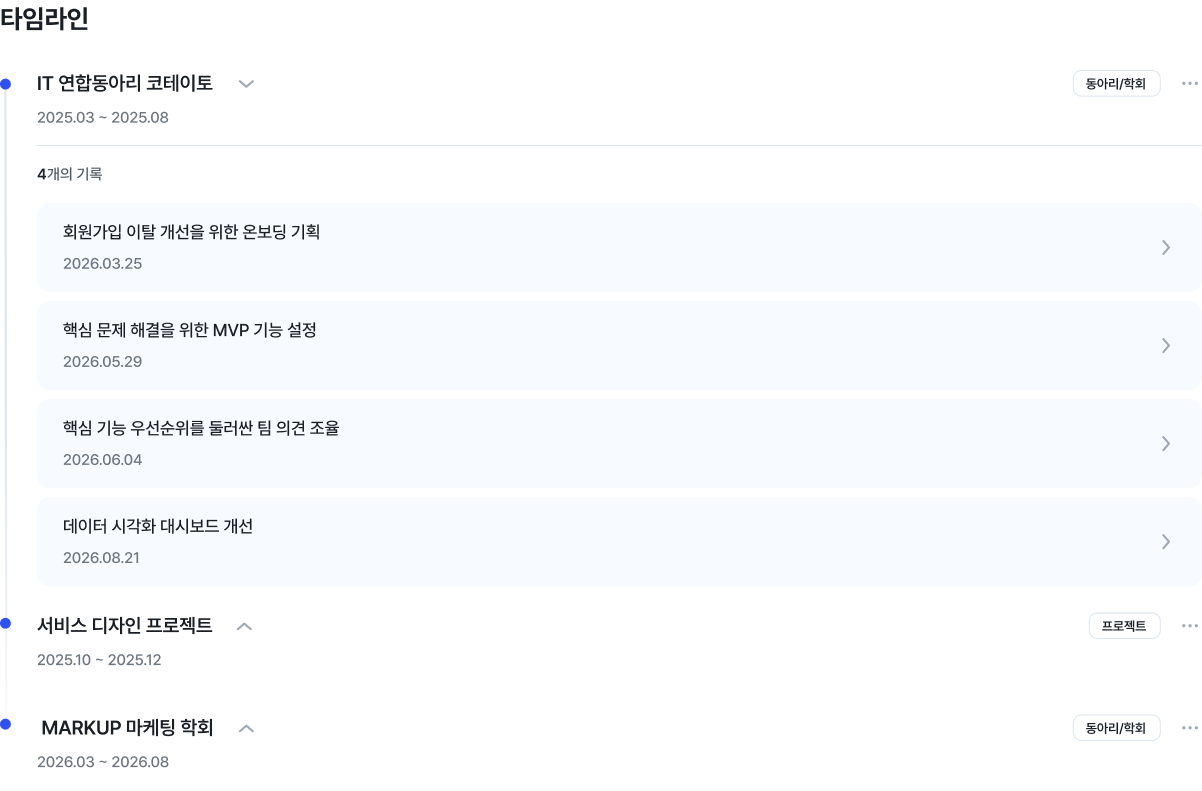
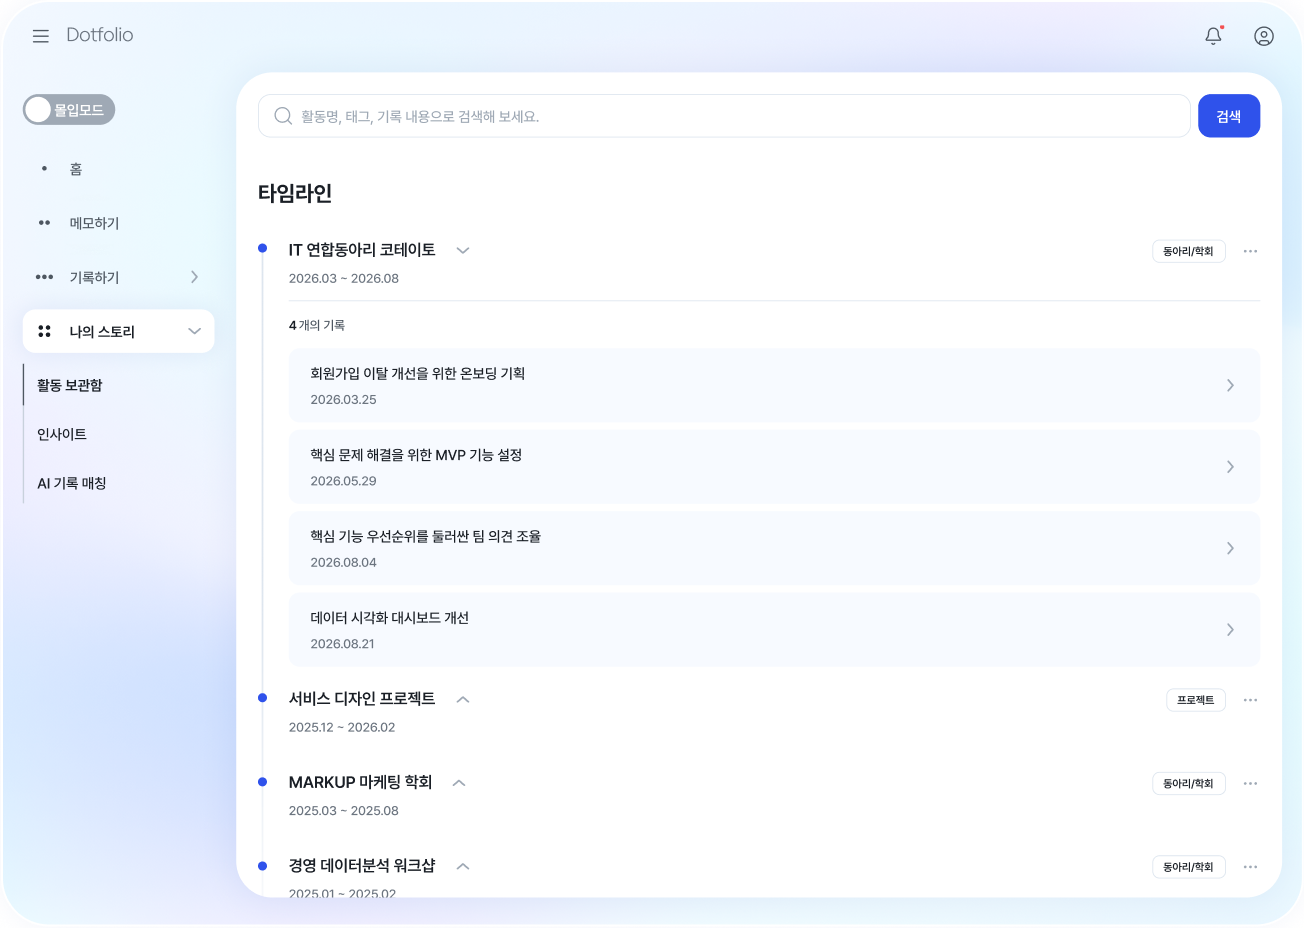
feat: 미리보기 이미지 수정

diff --git a/src/components/landing/SolutionStep.tsx b/src/components/landing/SolutionStep.tsx
@@ -19,36 +19,38 @@ export function SolutionStep({
       role="tab"
       aria-selected={selected}
       aria-controls="solution-preview"
-      className={`flex w-full items-start gap-4 rounded-3xl p-4 text-left sm:gap-6 sm:rounded-4xl sm:p-7 min-[1440px]:gap-[24px]! min-[1440px]:p-[28px]! ${
+      className={`flex w-full flex-col items-start gap-2.5 rounded-3xl text-left sm:rounded-4xl ${
         selected
-          ? "border-2 border-white bg-[rgba(255,255,255,0.70)] shadow-[0_0_15px_0_rgba(22,53,164,0.05)]"
-          : "border-2 border-transparent"
+          ? "border-2 border-white bg-[rgba(255,255,255,0.70)] p-4 shadow-[0_0_15px_0_rgba(22,53,164,0.05)] sm:p-7"
+          : "border-2 border-transparent px-4 py-4 sm:px-5.5 min-[1366px]:w-[440px]"
       }`}
       onClick={onSelect}
     >
-      <span
-        className={`flex size-10 shrink-0 items-center justify-center rounded-full p-0.75 text-lg leading-7 font-semibold tracking-[-0.2px] sm:text-xl min-[1440px]:text-[20px]! min-[1440px]:leading-[28px]! ${
-          selected ? "bg-primary-500 text-grey-0" : "bg-grey-200 text-grey-0"
-        }`}
-      >
-        {index}
-      </span>
-
-      <span className="flex flex-col items-start justify-center gap-2">
-        <strong
-          className={`text-xl leading-[140%] tracking-[-0.22px] sm:text-[22px] ${
-            selected
-              ? "font-semibold text-grey-900"
-              : "font-medium text-grey-700"
+      <span className="flex w-full items-start gap-4 sm:gap-6">
+        <span
+          className={`flex size-10 shrink-0 items-center justify-center rounded-full p-0.75 text-lg leading-7 font-semibold tracking-[-0.2px] sm:text-xl min-[1440px]:text-[20px]! min-[1440px]:leading-[28px]! ${
+            selected ? "bg-primary-500 text-grey-0" : "bg-grey-200 text-grey-0"
           }`}
         >
-          {title}
-        </strong>
-        {selected && description && (
-          <span className="whitespace-pre-line text-sm leading-6 text-grey-600 sm:text-body-reading1-r min-[1440px]:whitespace-pre! min-[1440px]:text-[18px]! min-[1440px]:leading-[28.8px]!">
-            {description}
-          </span>
-        )}
+          {index}
+        </span>
+
+        <span className="flex flex-col items-start justify-center gap-2">
+          <strong
+            className={`flex min-h-10 items-center text-xl leading-[140%] tracking-[-0.22px] sm:text-[22px] ${
+              selected
+                ? "font-semibold text-grey-900"
+                : "font-medium text-grey-700"
+            }`}
+          >
+            {title}
+          </strong>
+          {selected && description && (
+            <span className="whitespace-pre-line text-sm leading-6 text-grey-600 sm:text-body-reading1-r min-[1440px]:whitespace-pre! min-[1440px]:text-[18px]! min-[1440px]:leading-[28.8px]!">
+              {description}
+            </span>
+          )}
+        </span>
       </span>
     </button>
   );

diff --git a/src/components/landing/SolutionPreview.tsx b/src/components/landing/SolutionPreview.tsx
@@ -1,13 +1,18 @@
-const imageUrl = (filename: string) =>
-  new URL(`../../assets/landing_brandstory/${filename}`, import.meta.url).href;
-
-const QuickMemoPreview1 = imageUrl("solution-quick-memo1.png");
-const QuickMemoPreview2 = imageUrl("solution-quick-memo2.png");
-const StructuredRecordPreview = imageUrl("solution-structured-record.png");
-const ActivityArchivePreview = imageUrl("solution-activity-archive.png");
-const AiApplicationPreview = imageUrl("solution-ai-application.png");
+import QuickMemoPreview from "@/assets/landing_brandstory/solution-quick-memo.png";
+import ImmersionModePreview from "@/assets/landing_brandstory/solution-immersion-mode.png";
+import StructuredRecordPreview from "@/assets/landing_brandstory/solution-structured-record.png";
+import ActivityArchivePreview from "@/assets/landing_brandstory/solution-activity-archive.png";
+import AiApplicationPreview from "@/assets/landing_brandstory/solution-ai-application.png";
 
 const PREVIEWS = [
+  {
+    src: QuickMemoPreview,
+    alt: "빠르게 남긴 메모와 중요 메모를 정리한 화면",
+  },
+  {
+    src: ImmersionModePreview,
+    alt: "몰입모드에서 기록을 이어서 작성하는 화면",
+  },
   {
     src: StructuredRecordPreview,
     alt: "메모를 템플릿에 맞춰 구조화하는 기록 화면",
@@ -27,30 +32,13 @@ interface SolutionPreviewProps {
 }
 
 export function SolutionPreview({ selectedStep }: SolutionPreviewProps) {
-  if (selectedStep === 0) {
-    return (
-      <div className="relative size-full">
-        <img
-          src={QuickMemoPreview1}
-          alt="빠르게 남긴 메모 화면"
-          className="absolute top-[28%] left-[5%] w-[44%] object-contain lg:top-[143px] lg:left-[54px] lg:size-[268px]"
-        />
-        <img
-          src={QuickMemoPreview2}
-          alt="중요한 메모를 정리한 화면"
-          className="absolute top-[10%] right-[5%] h-[80%] w-[44%] object-contain lg:top-[54px] lg:right-[54px] lg:h-[412px] lg:w-[268px]"
-        />
-      </div>
-    );
-  }
-
-  const preview = PREVIEWS[selectedStep - 1];
+  const preview = PREVIEWS[selectedStep];
 
   return (
     <img
       src={preview.src}
       alt={preview.alt}
-      className="max-h-[calc(100%-2rem)] w-[calc(100%-2rem)] object-contain sm:max-h-[439px] sm:w-[601px]"
+      className="size-full"
     />
   );
 }

diff --git a/src/components/landing/SolutionSection.tsx b/src/components/landing/SolutionSection.tsx
@@ -47,7 +47,7 @@ export function SolutionSection() {
           </h2>
         </div>
 
-        <div className="flex w-full flex-col items-stretch gap-8 min-[1366px]:flex-row min-[1366px]:items-center min-[1366px]:gap-21.5 min-[1440px]:gap-[86px]!">
+        <div className="flex w-full flex-col items-stretch gap-8 min-[1366px]:flex-row min-[1366px]:items-center min-[1366px]:justify-between min-[1366px]:gap-0">
           <div
             className="flex w-full shrink-0 flex-col items-start gap-3 lg:gap-5 min-[1366px]:w-[441px]"
             role="tablist"
@@ -69,7 +69,7 @@ export function SolutionSection() {
             id="solution-preview"
             role="tabpanel"
             aria-label={`${SOLUTION_STEPS[selectedStep].title} 미리보기`}
-            className="flex h-[min(78vw,360px)] w-full shrink-0 items-center justify-center overflow-hidden rounded-[32px] border-2 border-white bg-white shadow-[0_0_15px_0_rgba(22,53,164,0.05)] sm:h-[440px] lg:h-[519px] lg:w-[673px] lg:rounded-[60px]"
+            className="aspect-[651.43/463.239] w-full shrink-0 lg:w-[651.43px]"
           >
             <SolutionPreview selectedStep={selectedStep} />
           </div>

diff --git a/src/vite-env.d.ts b/src/vite-env.d.ts
@@ -6,6 +6,11 @@ declare module '*.svg' {
 
 declare module '*.css';
 
+declare module '*.png' {
+  const src: string;
+  export default src;
+}
+
 interface ImportMetaEnv {
   readonly DEV: boolean;
   readonly VITE_API_BASE_URL?: string;
